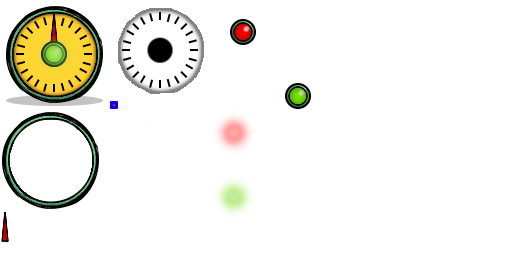
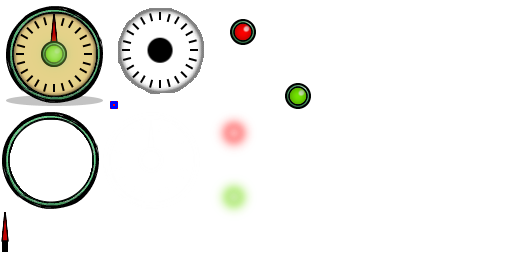
Bug fix & new anim for LogicScheduleSensor

Changed region(s): [[0.0, 0.0312, 0.1875, 0.375], [0.0, 0.9375, 0.0312, 1.0]]

diff --git a/src/LogicScheduleSensor/LogicScheduleSensor.cs b/src/LogicScheduleSensor/LogicScheduleSensor.cs
@@ -26,7 +26,7 @@ namespace RomenH.LogicScheduleSensor
 		{
 			base.OnSpawn();
 			base.OnToggle += OnSwitchToggled;
-			meter = new MeterController(anim, "meter_target", "meter", Meter.Offset.Infront, Grid.SceneLayer.Building, Array.Empty<string>());
+			meter = new MeterController(anim, "meter_target", "meter", Meter.Offset.Behind, Grid.SceneLayer.Building, Array.Empty<string>());
 			UpdateLogicCircuit();
 			UpdateVisualState(force: true);
 			wasOn = switchedOn;
@@ -39,13 +39,13 @@ namespace RomenH.LogicScheduleSensor
 				Schedule s = ScheduleManager.Instance.GetSchedules()[scheduleIndex];
 				int currentScheduleBlock = Schedule.GetBlockIdx();
 
-				float meterPercent = (float)(currentScheduleBlock + 1) / 24f;
+				float meterPercent = (float)(currentScheduleBlock) / 24f;
 				meter.SetPositionPercent(meterPercent);
 
 				ScheduleBlock b = s.GetBlock(currentScheduleBlock);
 				string currentScheduleGroup = b.GroupId;
 
-				anim.SetSymbolTint("face", GetBlockColor(b));
+				meter.SetSymbolTint("face", GetBlockColor(b));
 
 				string selectedScheduleGroup = Db.Get().ScheduleGroups.allGroups[blockTypeIndex].Id;
 
